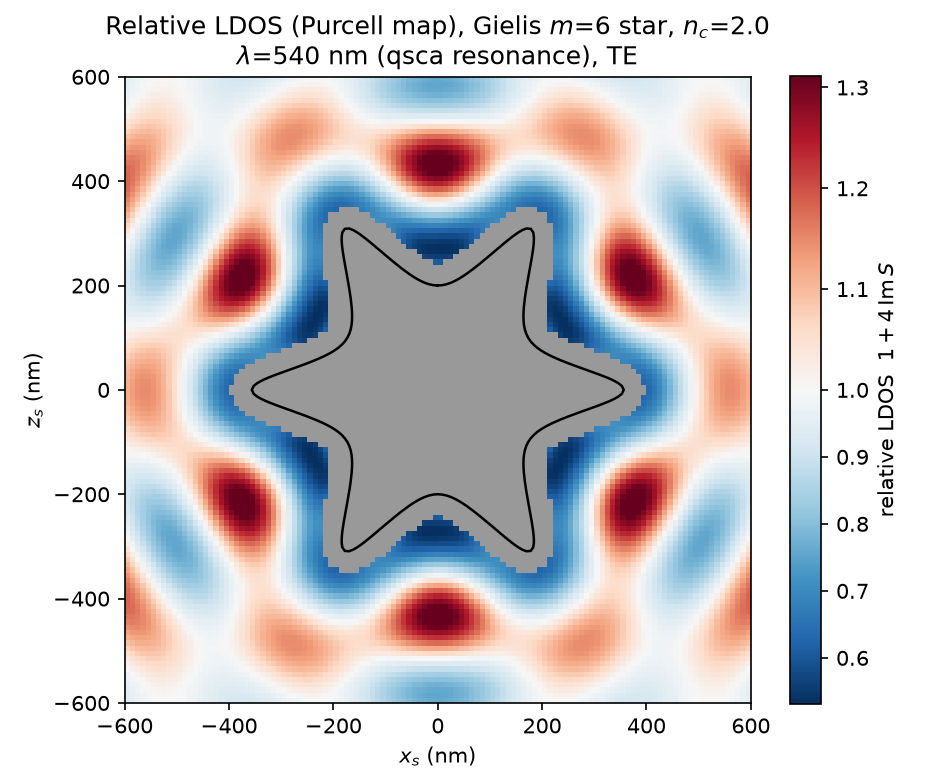
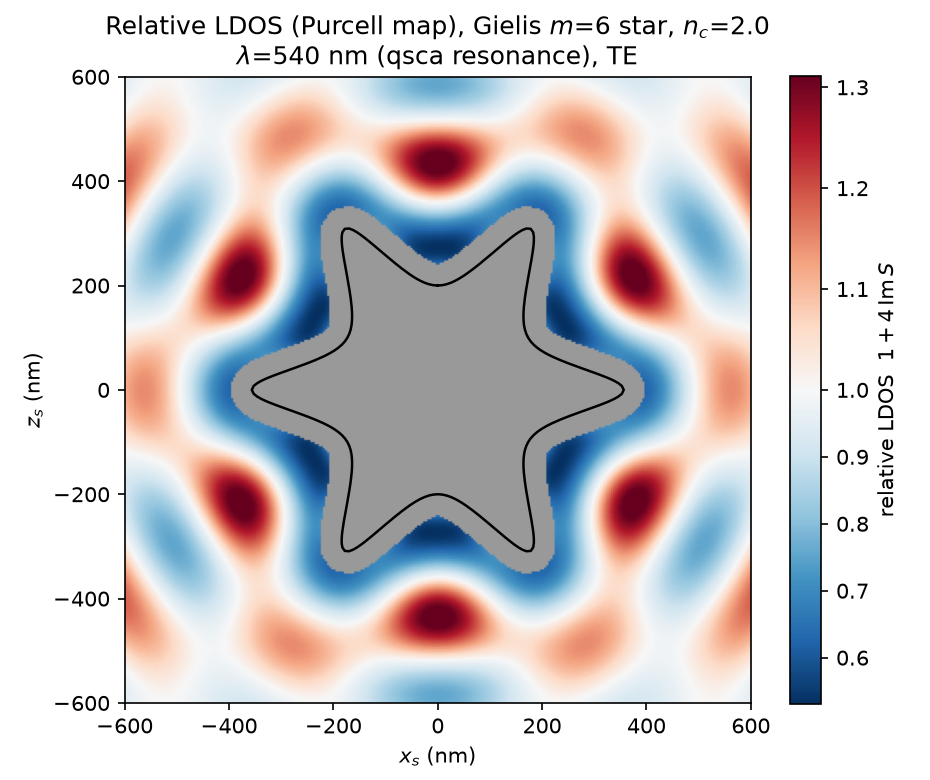
fix: produce higher-res purcell map

diff --git a/examples/purcell_map.py b/examples/purcell_map.py
@@ -43,7 +43,7 @@ N1, N2, N3 = 6.0, 12.0, 12.0
 WAVELENGTH = 540.0  # on a qsca resonance of this star (see module docstring)
 N_PTS = 300
 GRID_HALF_WIDTH = 3.0 * RAD
-GRID_N = 120  # coarse for a quick run
+GRID_N = 300  # coarse for a quick run
 
 
 def main() -> None:
